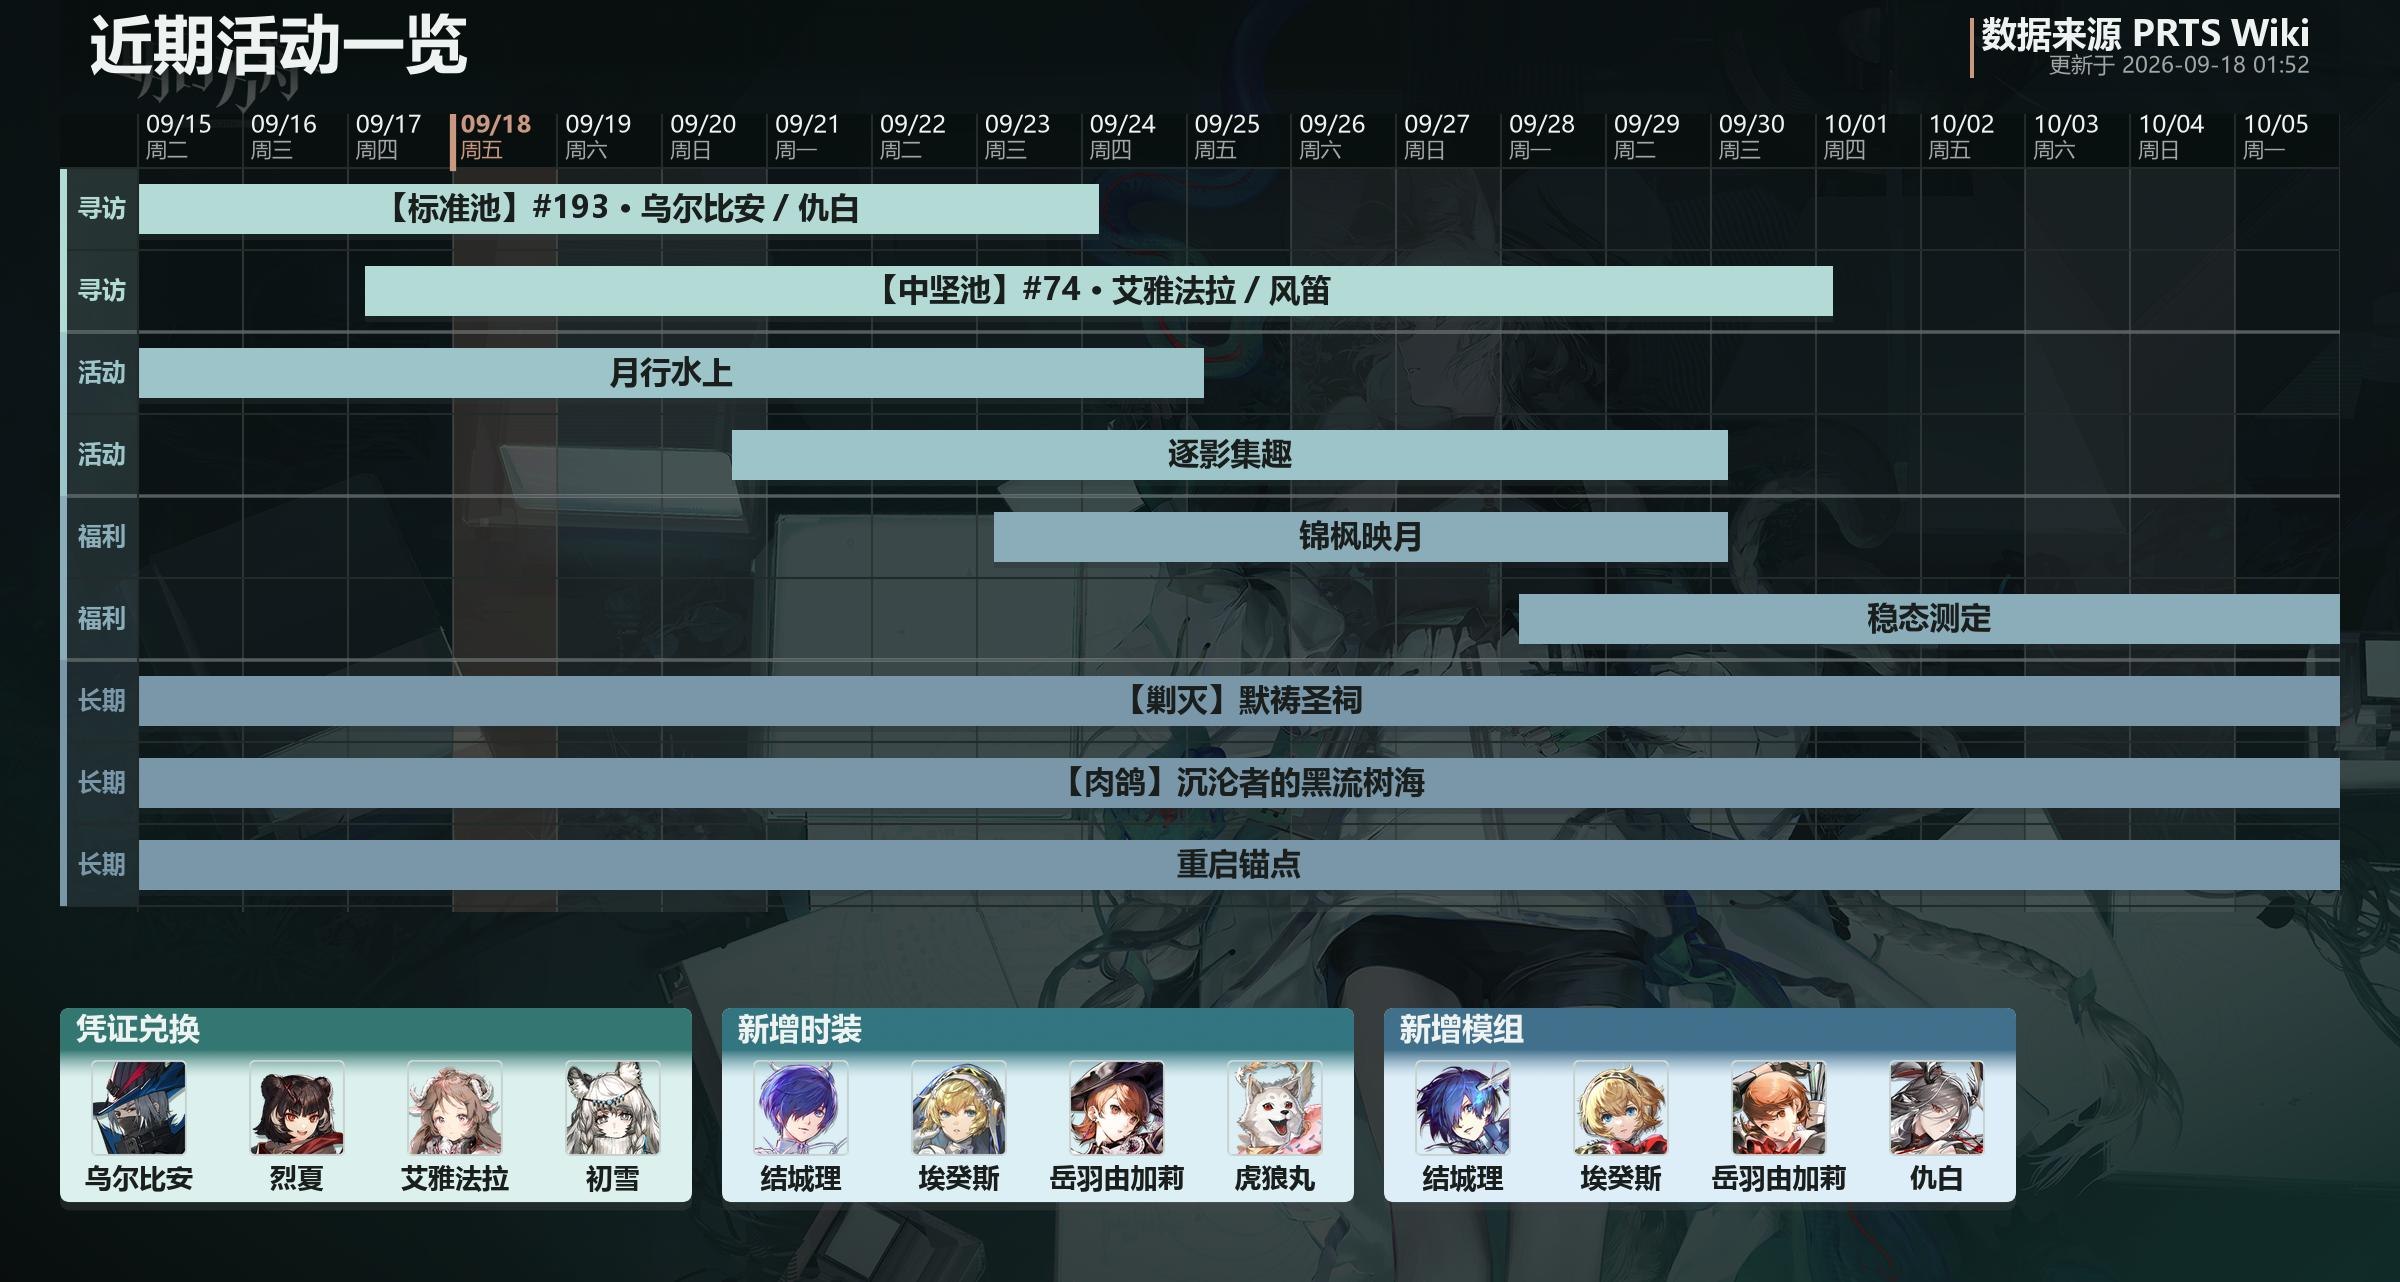
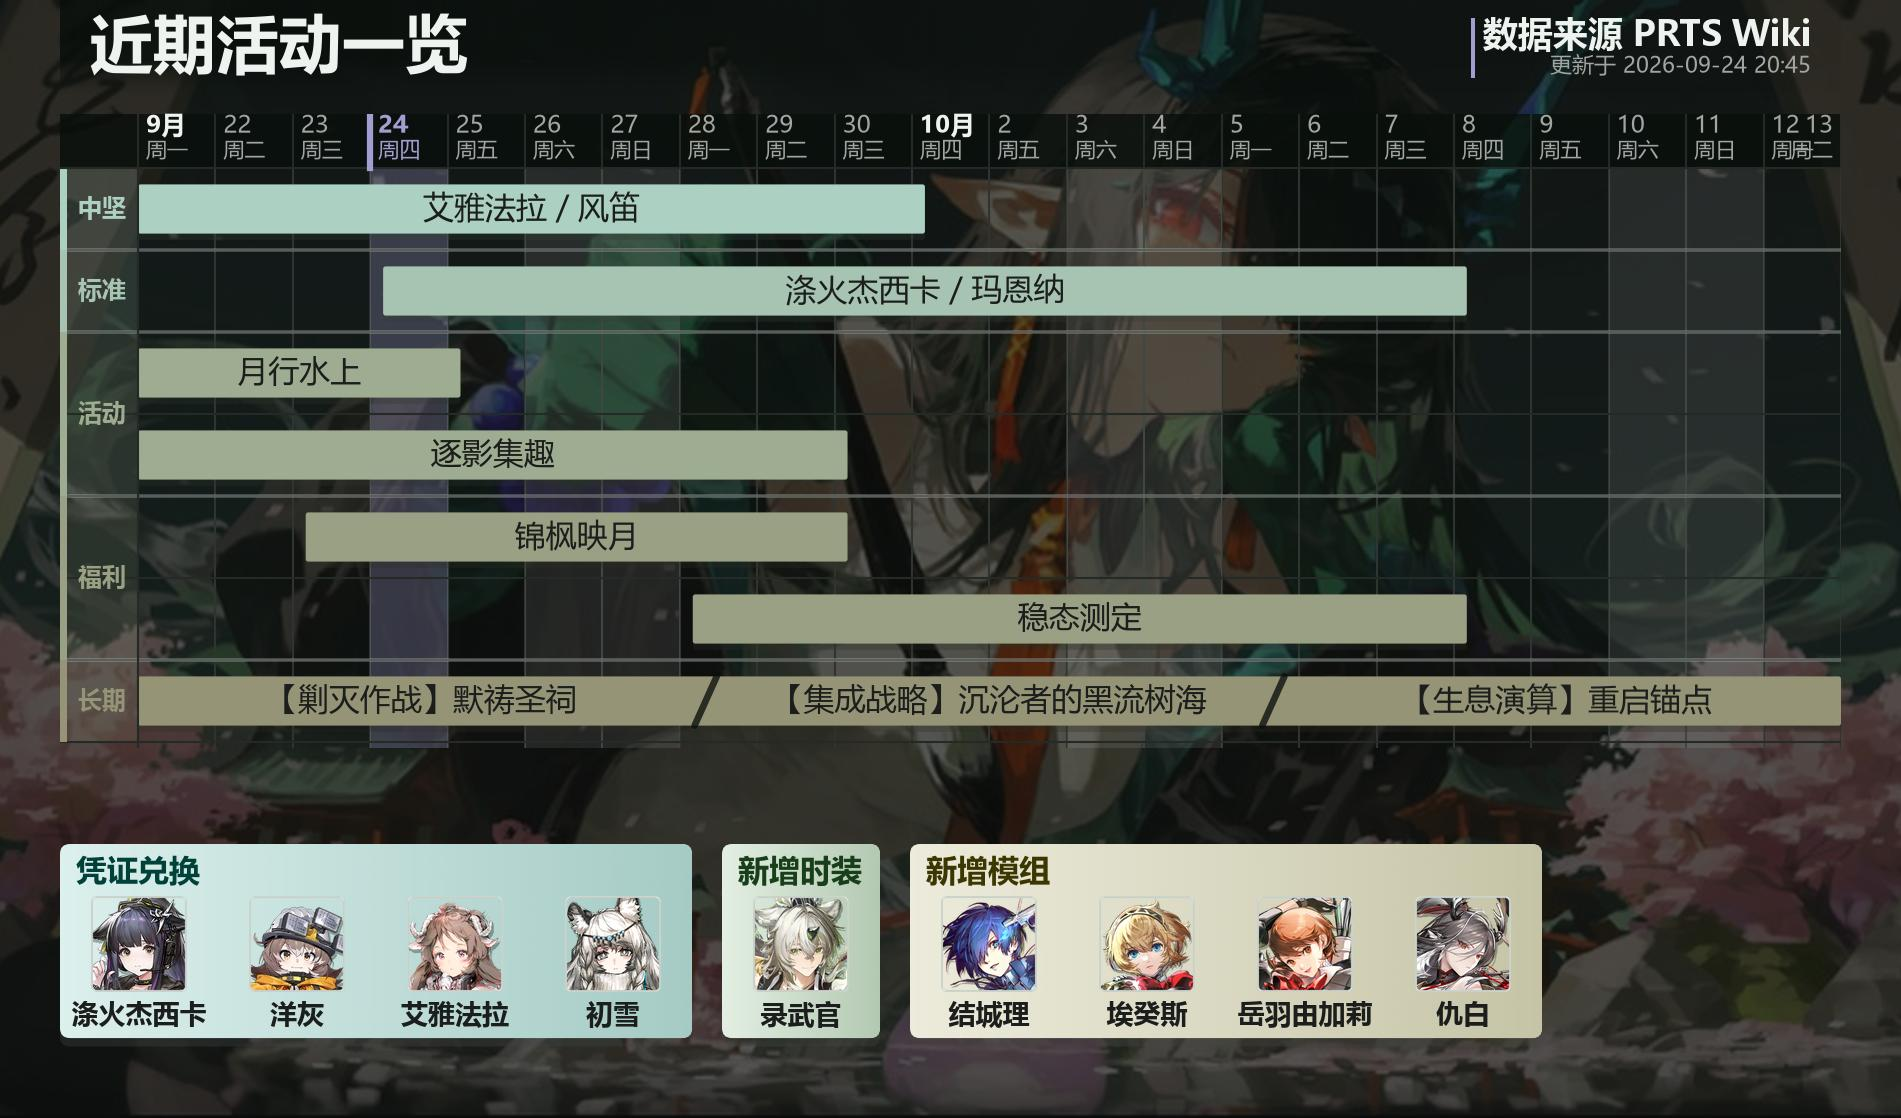
docs(README): 面向用户精简（194→137 行），展示图换最新渲染
- 砍致谢里的生态抽样/同类产品两张调研底稿表（结论已在 docs/插件化.md）
- 砍配置项 18 行表：设置页每项自带说明；配置契约三边变两边（删 README 腿测试）
- 致谢压成 3 行列表（保留合规要求的灵感来源）
- Gantt.jpg 快照更新为当天真实渲染（自适应宽、新刻度、长期合并行）

diff --git a/docs/插件化.md b/docs/插件化.md
@@ -468,7 +468,7 @@ import matplotlib                                  # noqa: F401 —— 别删
 
 | 你要改什么 | 必须一起动的地方 |
 |---|---|
-| 配置字段（加/删/改名） | `_conf_schema.json` + `插件/配置.py`（`字段映射` + 夹取范围）+ README「配置项」表 —— **三处同步**；`pytest` 的配置契约会核对四处一致 |
+| 配置字段（加/删/改名） | `_conf_schema.json` + `插件/配置.py`（`字段映射` + 夹取范围）—— **两处同步**；`pytest` 的配置契约会核对一致（曾含 README「配置项」表一腿，2026-09-24 删：设置页每项自带说明，README 不重复） |
 | 配置默认值 | `CHANGELOG.md`（**存储值优先于 schema**，老用户不会自动跟随）+ 版本号 |
 | 发版 | `metadata.yaml` 的 `version` + `main.py` 的 `插件版本` + `pyproject.toml` 的 `version`（**三处一致**，测试钉住）+ `CHANGELOG.md` 新增一节 + 到市场页面更新 |
 | 改代码 | `python -m pytest tests -q` + `tmp/check_plugin.py`（期望 `未通过：无`）；动渲染再跑 `tmp/基准_渲染.py` |
